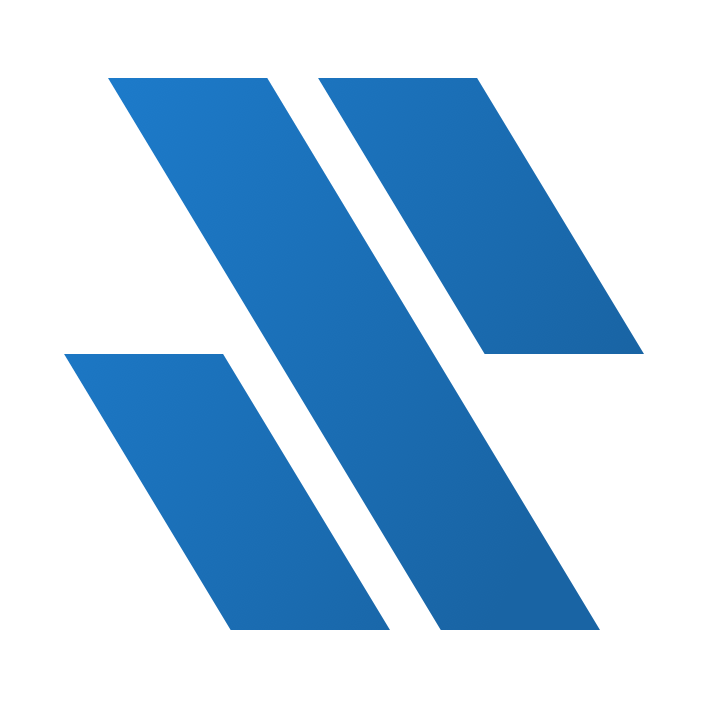
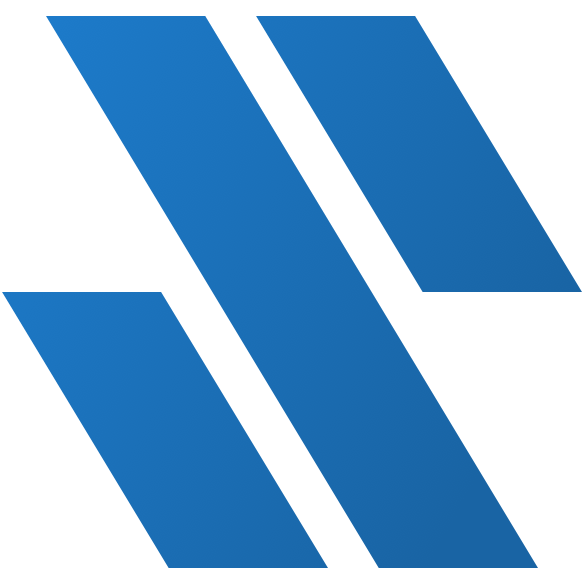
Portrait image scaling and positioning

Changed region(s): [[0.0, 0.0, 1.0, 0.988]]

diff --git a/src/Components/Home/Home.js b/src/Components/Home/Home.js
@@ -9,56 +9,60 @@ import Blocker from "../../assets/blocker.png";
 class Home extends React.Component {
   render() {
     return (
-      <div className="basetext1 medium">
-        <div className="title">about me</div>
-        <div className="Portrait">
-          <img src={Blocker} className="Blocker" />
-          <img src={Portrait} className="Portrait" />
-          <img src={Background} className="Background" />
-        </div>
-        <div className="subheader1">James Juyoung Park</div>
-        <div>
-          Software Engineering Student at the{" "}
-          <strong>University of Victoria</strong>
-        </div>
-        <div>
-          Co-op Software Developer at <strong>PDFTron Systems</strong>
-        </div>
-        <div>
-          <a
-            href="https://drive.google.com/file/d/1z5UOpLnqH-6NkjqhB9vwLI3ty1EcMGl2/view?usp=sharing"
-            target="_blank"
-            rel="noopener noreferrer"
-          >
-            Resume
-          </a>
-        </div>
-        <div>
-          <a
-            href="https://github.com/jamesjypark"
-            target="_blank"
-            rel="noopener noreferrer"
-          >
-            Github
-          </a>
-        </div>
-        <div>
-          <a
-            href="https://dribbble.com/jamespark"
-            target="_blank"
-            rel="noopener noreferrer"
-          >
-            Dribbble
-          </a>
-        </div>
-        <div>
-          <a
-            href="https://www.linkedin.com/jamesjypark"
-            target="_blank"
-            rel="noopener noreferrer"
-          >
-            LinkedIn
-          </a>
+      <div className="Home">
+        <div className="basetext1 medium">
+          <div className="title">about me</div>
+          <div className="Portrait">
+            <img src={Blocker} className="Blocker" />
+            <img src={Portrait} className="Portrait" />
+            <img src={Background} className="Background" />
+          </div>
+          <div className="subheader1">James Juyoung Park</div>
+          <div className="description">
+            Software Engineering Student at the{" "}
+            <strong>University of Victoria</strong>
+          </div>
+          <div className="description">
+            Co-op Software Developer at <strong>PDFTron Systems</strong>
+          </div>
+          <div className="links">
+            <div>
+              <a
+                href="https://drive.google.com/file/d/1z5UOpLnqH-6NkjqhB9vwLI3ty1EcMGl2/view?usp=sharing"
+                target="_blank"
+                rel="noopener noreferrer"
+              >
+                Resume
+              </a>
+            </div>
+            <div>
+              <a
+                href="https://github.com/jamesjypark"
+                target="_blank"
+                rel="noopener noreferrer"
+              >
+                Github
+              </a>
+            </div>
+            <div>
+              <a
+                href="https://dribbble.com/jamespark"
+                target="_blank"
+                rel="noopener noreferrer"
+              >
+                Dribbble
+              </a>
+            </div>
+            <div>
+              <a
+                href="https://www.linkedin.com/jamesjypark"
+                target="_blank"
+                rel="noopener noreferrer"
+              >
+                LinkedIn
+              </a>
+            </div>
+          </div>
         </div>
       </div>
     );

diff --git a/src/Components/Home/Home.scss b/src/Components/Home/Home.scss
@@ -1,13 +1,32 @@
-.Portrait {
-  position: relative;
-  top: 0;
-  left: 0;
-  img:nth-child(1) {
-    z-index: 5;
-    position: absolute;
+.Home {
+  .Portrait {
+    position: relative;
+    top: 0;
+    left: 0;
+    img {
+      width: 45vw;
+    }
+    img:nth-child(1) {
+      z-index: 5;
+      position: absolute;
+    }
+    img:nth-child(2) {
+      position: absolute;
+      left: auto;
+    }
   }
-  img:nth-child(2) {
-    position: absolute;
-    margin-left: 65px;
+  .subheader1 {
+    margin: 20px;
+  }
+  .description {
+    margin: 7px;
+  }
+  .links {
+    margin-top: 40px;
+    > * {
+      margin-top: 10px;
+      text-decoration: none;
+      color: #393e46;
+    }
   }
 }

diff --git a/src/Components/Header/Header.scss b/src/Components/Header/Header.scss
@@ -13,11 +13,7 @@
   color: #393e46;
 
   > * {
-    margin-right: 2vw;
-  }
-
-  div {
-    margin-left: 3vw;
+    margin-right: 20px;
   }
 
   img {
